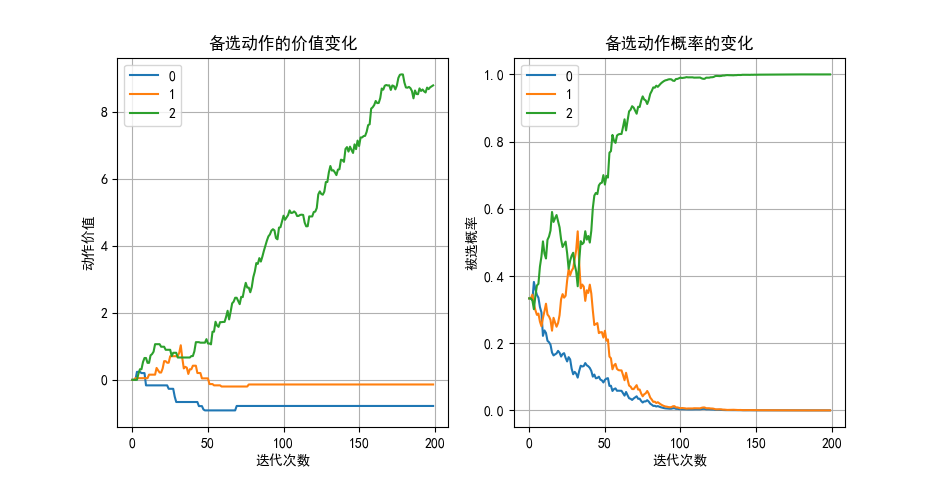
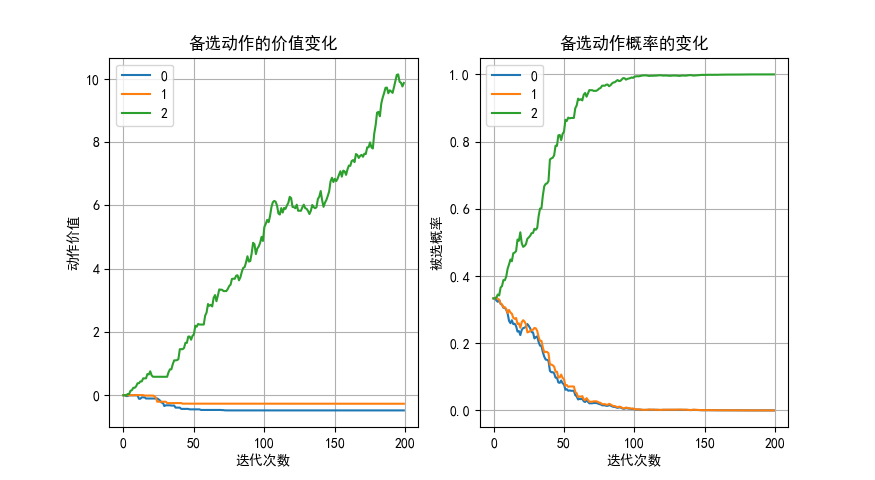
hhl

diff --git a/基础教程/A7-强化学习/20-多臂强盗问题 - 从概率计算到模拟验证/src/bandit_25_softmax.py b/基础教程/A7-强化学习/20-多臂强盗问题 - 从概率计算到模拟验证/src/bandit_25_softmax.py
@@ -20,29 +20,36 @@ class KAB_Softmax(kab_base.KArmBandit):
     def update_Q(self, action, reward):
         self.steps += 1 # 迭代次数
         self.action_count[action] += 1  # 动作次数(action_count)
-        # 计算动作价值
+        self.average_reward += (reward - self.average_reward) / self.steps
+        self.Q[action] += alpha * (reward - self.average_reward) * self.P[action]
+        ''' # 是否要更新没有被选中的动作 Q 值
+        for i in range(self.k_arms):
+            if (i != action):
+                self.Q[i] += self.alpha * (-self.average_reward) * self.P[i]
+        '''
+        ''' # Sutton 的算法
         one_hot = np.zeros(self.k_arms)
         one_hot[action] = 1
         self.average_reward += (reward - self.average_reward) / self.steps
         self.Q += self.alpha * (reward - self.average_reward) * (one_hot - self.P)
-
+        '''
 
 if __name__ == "__main__":
-    runs = 2000
+    runs = 200
     steps = 1000
     k_arms = 10 
     
     bandits:kab_base.KArmBandit = []
-    bandits.append(KAB_Softmax(k_arms, alpha=0.10))
-    bandits.append(KAB_Softmax(k_arms, alpha=0.15))
-    bandits.append(KAB_Softmax(k_arms, alpha=0.20))
-    bandits.append(KAB_Softmax(k_arms, alpha=0.25))
+    bandits.append(KAB_Softmax(k_arms, alpha=0.5))
+    bandits.append(KAB_Softmax(k_arms, alpha=0.6))
+    bandits.append(KAB_Softmax(k_arms, alpha=0.7))
+    bandits.append(KAB_Softmax(k_arms, alpha=0.8))
 
     labels = [
-        'Softmax(0.10)',
-        'Softmax(0.15)',
-        'Softmax(0.20)',
-        'Softmax(0.25)',
+        'Softmax(0.5)',
+        'Softmax(0.6)',
+        'Softmax(0.7)',
+        'Softmax(0.8)',
     ]
 
     title = 'Softmax'

diff --git a/基础教程/A7-强化学习/20-多臂强盗问题 - 从概率计算到模拟验证/src/bandit_25_softmax_copy.py b/基础教程/A7-强化学习/20-多臂强盗问题 - 从概率计算到模拟验证/src/bandit_25_softmax_copy.py
@@ -21,8 +21,7 @@ class KAB_Softmax_copy(kab_base.KArmBandit):
         self.action_count[action] += 1  # 动作次数(action_count)
         self.average_reward += (reward - self.average_reward) / self.steps
         # 计算动作价值
-        self.Q[action] += self.alpha * (reward - self.average_reward) * self.P[action]
-
+        self.Q[action] += self.alpha * (reward - self.average_reward) #* self.P[action]
         '''
         for i in range(self.k_arms):
             if (i != action):
@@ -32,7 +31,7 @@ class KAB_Softmax_copy(kab_base.KArmBandit):
         # Q(a) = Q(a) + alpha * (R - Q.mean()) * P(a)
 
 if __name__ == "__main__":
-    runs = 2000
+    runs = 200
     steps = 1000
     k_arms = 10 
     

diff --git a/基础教程/A7-强化学习/20-多臂强盗问题 - 从概率计算到模拟验证/src/bandit_25_softmax_test.py b/基础教程/A7-强化学习/20-多臂强盗问题 - 从概率计算到模拟验证/src/bandit_25_softmax_test.py
@@ -1,14 +1,14 @@
 from cProfile import label
 import numpy as np
 import matplotlib.pyplot as plt
-from bandit_25_softmax_copy import KAB_Softmax_copy 
+from bandit_25_softmax import KAB_Softmax
 import matplotlib as mpl
 
 
 mpl.rcParams['font.sans-serif'] = ['SimHei']  
 mpl.rcParams['axes.unicode_minus']=False
 
-class KAB_Softmax_test(KAB_Softmax_copy):
+class KAB_Softmax_test(KAB_Softmax):
     def __init__(self, k_arms=10, alpha:float=0.1):
         super().__init__(k_arms=k_arms, alpha=alpha)
         self.Ps = []

diff --git a/基础教程/A7-强化学习/20-多臂强盗问题 - 从概率计算到模拟验证/5-梯度上升法.md b/基础教程/A7-强化学习/20-多臂强盗问题 - 从概率计算到模拟验证/5-梯度上升法.md
@@ -102,40 +102,36 @@ $$
 \begin{aligned}
 \nabla f(a) &= \frac{\partial [\pi(a)R_a + \pi(b)R_b + \pi (c) R_c]}{\partial Q(a)}
 \\
-&= \frac{\partial \pi(a)}{\partial Q(a)}R_a + \frac{\pi(b)}{\partial Q(a)}R_b+ \frac{\pi (c)}{\partial Q(a)}R_c
+&= \frac{\partial \pi(a)}{\partial Q(a)}R_a + \frac{\partial \pi(b)}{\partial Q(a)}R_b+ \frac{\partial \pi (c)}{\partial Q(a)}R_c
 \\
-&=\pi(a)(1-\pi(a))R_a-\pi(a)\pi(b)R_b-\pi(a)\pi(c)R_c
+&=\pi(a)[1-\pi(a)]R_a-\pi(a)\pi(b)R_b-\pi(a)\pi(c)R_c
 \\
-&=\pi(a)[R_a - (\pi(a)R_a+\pi(a)R_b+\pi(c)R_c)]
-\\
+&=\pi(a)\big[R_a - [\pi(a)R_a+\pi(a)R_b+\pi(c)R_c]\big]=\pi(a)(R_a-\sum_x \pi_x R_x)\\
 &=\pi(a)(R_a-\mathbb E[R_t])
 \end{aligned}
 \tag{2.5.7}
 $$
 
-由于是假设执行了动作 $a$，所以 $R_a$ 就是当前动作的收益 $R_t$；$\mathbb E[R_t]$ 可以用当前的收益的均值来表示，简写为 $\bar{R}$。则式（2.5.7）进一步表示为 $\pi(a)(R_t-\bar{R})$，那么最终结果是：
+由于是假设执行了动作 $a$，所以 $R_a$ 就是当前动作的收益 $R_t$；$\mathbb E[R_t]$ 可以用到当前为止历史收益的均值来表示，简写为 $\bar{R_t}$。则式（2.5.7）进一步表示为 $\pi(a)(R_t-\bar{R_t})$，那么最终结果是：
 
 $$
-Q_{t+1}(a) = Q_t(a) + \alpha (R_t - \bar R)\pi(a) \tag{2.5.8}
+Q_{t+1}(a) = Q_t(a) + \alpha (R_t - \bar {R_t})\pi_t(a) \tag{2.5.8}
 $$
 
+式（2.5.8）都加上了下标 $t$，表示当前迭代次数，也暗示了 $Q(a),\pi(a)$ 都是随着迭代次数而变化的
 
-可以表示为在 $t$ 时刻获得的收益的期望值减去到目前为止收益的平均值，再乘以对 $\pi(x)$ 求导的结果：
-
-$$
-\nabla f(a) = (R_t - \bar{R})(1_{a=x}-\pi(x)) \tag{2.5.9}
-$$
-
-$1_{a=x}$ 的意思是，当 $a=x$ 时，值为 1；当 $a \ne x$ 是，值为 0。如果分开上述两种情况，可以表示为：
+在 Sutton 的书中，经过一系列的假设和推导，得到的梯度更新公式为：
 
 $$
 \begin{cases}
-Q_n(a) \doteq Q_{n-1} (a) + \alpha (R_t - \bar{R})(1-\pi(a)), & 被选动作 a=x
+Q_t(a) \doteq Q_{t-1} (a) + \alpha (R_t - \bar{R})(1-\pi(a)), & 被选动作 a=x
 \\
-Q_n(x) \doteq Q_{n-1} (x) + \alpha (R_t - \bar{R})(-\pi(x)), & 其它动作 a \ne x
+Q_t(x) \doteq Q_{t-1} (x) + \alpha (R_t - \bar{R})(-\pi(x)), & 其它动作 a \ne x
 \end{cases}
-\tag{2.5.10}
+\tag{2.5.9}
 $$
+
+由读者自己阅读理解，看看哪一个更合理，可以接受。
 
 ### 2.5.3 算法与实现
 
@@ -153,8 +149,7 @@ $r \leftarrow 0$，循环 2000 次：
 　　　　执行 $a$ 得到奖励 $r$
 　　　　$N(a) \leftarrow N(a)+1$
 　　　　$\bar{R} \leftarrow \bar{R} + (r-\bar{R})/t$
-　　　　更新 $a$ 的动作价值函数 $q(a) \leftarrow q(a)+\alpha(r-\bar{R})(1-\pi(a))$
-　　　　更新其它动作的价值函数 $q(x) \leftarrow q(x)+\alpha(r-\bar{R})(-\pi(x))$
+　　　　更新 $a$ 的动作价值函数 $q(a) \leftarrow q(a)+\alpha(r-\bar{R})\pi(a)$
 　　　　$t \leftarrow t+1$
 　　$r \leftarrow r+1$
 
@@ -164,13 +159,13 @@ $r \leftarrow 0$，循环 2000 次：
 
 #### 从动作价值计算备选概率
 
-就是实现式（2.5.1），但是有一个小的技巧，以避免计算指数时值过大而溢出：
+实现式（2.5.1）有一个小技巧，以避免计算指数时值过大而溢出：
 
 假设一共有 a,b,c 三个值，a 最大，则计算 $p_b$ 时有：
 
 $$
 p_b=\frac{e^b}{e^a+e^b+e^c}=\frac{e^b/e^a}{e^a/e^a+e^b/e^a+e^c/e^a}=\frac{e^{b-a}}{e^{a-a}+e^{b-a}+e^{c-a}}
-\tag{2.5.7}
+\tag{2.5.10}
 $$
 
 这样一来，所有的指数值都是小于等于 0 的，肯定不会溢出。实现如下：
@@ -185,19 +180,14 @@ $$
 
 #### 更新动作价值
 
-由于本算法需要特殊的更新动作价值的方法，所以需要重载基类中的 update_Q() 函数。
-
-在更新动作价值时，也有一个小的技巧，就是利用 one_hot 数组，一次性地更新所有动作的价值，实际上相当于实现了式（2.5.5）。如果老老实实按照式（2.5.6）更新，一共 10 个动作的话，就需要 10 次计算。
+由于本算法需要特殊的更新动作价值的方法，所以需要重载基类中的 update_Q() 函数，以实现式（2.5.8）。
 
 ```python
     def update_Q(self, action, reward):
         self.steps += 1 # 迭代次数
         self.action_count[action] += 1  # 动作次数(action_count)
-        # 计算动作价值
-        one_hot = np.zeros(self.k_arms)
-        one_hot[action] = 1 # 设置被选动作单元为1，其它为0
         self.average_reward += (reward - self.average_reward) / self.steps
-        self.Q += self.alpha * (reward - self.average_reward) * (one_hot - self.action_prob)
+        self.Q[action] += self.alpha * (reward - self.average_reward) * self.P[action]
 ```
 
 #### 参数设置
@@ -216,26 +206,20 @@ $$
 <center>
 <img src='./img/algo-Gradient.png'/>
 
-图 2.5.1 梯度上升法
+图 2.5.1 梯度上升法结果
 </center>
 
-从图 2.5.1 来看
+从图 2.5.1 来看，4 组参数的效果差不多。
 
-- $\alpha=0.10$
+- $\alpha=0.5$
 
     因为步长太小，探索阶段的“热身”过于缓慢，但是在最佳动作利用率方面后来居上。相信如果迭代次数多时，会有更好的效果。
 
-- $\alpha=0.15$
-
-    效果最佳，获得了最高的平均收益。在探索阶段虽然居第三位，但是到了 300-500 步时，已经超越其它参数。
-
-- $\alpha=0.20$
-
-    与上一个参数的性能很接近，只是在利用阶段的稍微逊色一些。
-
-- $\alpha=0.25$
+- $\alpha=0.8$
 
     在探索阶段最“猛”，快速上升到本身的最佳值，但是后期的后劲不足，一直处于末位。因为步长过大，不容易稳定地寻找到最佳动作。
+
+这就给了我们一个启示：能不能在开始阶段用 $\alpha=0.8$，后期用 $\alpha=0.5$ 呢？读者可以自行试验。
 
 ### 2.6.4 深入理解
 
@@ -263,14 +247,16 @@ if __name__ == "__main__":
 （左图：动作价值的变化；右图：备选概率的变化）
 </center>
 
-从左图看，3 个动作的初始价值都是 0，随着算法的进行而分裂，第 2 个动作（从 0 开始数）最后可以到达 8，其它 2 个动作按照它们的收益均值依次排列，1 在 0 的上面，因为在基类中我们“偷偷”地做了排序，序号越大的动作收益均值也越大，这样便于直观比较。
+从左图看，3 个动作的初始价值都是 0，随着算法的进行而分裂，第 2 个动作（从 0 开始数）最后可以到达 10，其它 2 个动作按照它们的收益均值依次排列，1 在 0 的上面，因为在基类中我们“偷偷”地做了排序，序号越大的动作收益均值也越大，这样便于直观比较。
 
-右图是 Softmax 函数计算的概率，大概在第 40 步时，动作 2 就已经脱颖而出了，然后一路飙升。在任意时刻，所有的动作的概率之和为 1，这是由 softmax 的算法决定的。
+右图是 Softmax 函数计算的概率，大概在第 5 步时，动作 2 就已经脱颖而出了，然后一路飙升。在任意时刻，所有的动作的概率之和为 1，这是由 softmax 的算法决定的。
 
-打印输出最终的动作价值和备选概率，可以看到，基本上有很少的几率可以选到 0 号和 1 号动作，99.98% 都会选择 2 号动作。
+打印输出最终的动作价值和备选概率，可以看到，基本上有很少的几率可以选到 0 号和 1 号动作，99.99% 都会选择 2 号动作。
 
 ```
-最终的动作价值 = [-0.78 -0.14  8.81]
-最终的备选概率 = [6.85154312e-05 1.30264413e-04 9.99801220e-01]
+最终的动作价值 = [-0.48 -0.27  9.87]
+最终的备选概率 = [3.19530774e-05 3.94321840e-05 9.99928615e-01]
 备选概率的和 = 1.0
 ```
+
+但是如果 k_arms=10 的话，0.15 这个参数值就不合适了，读者可以自行试验。
